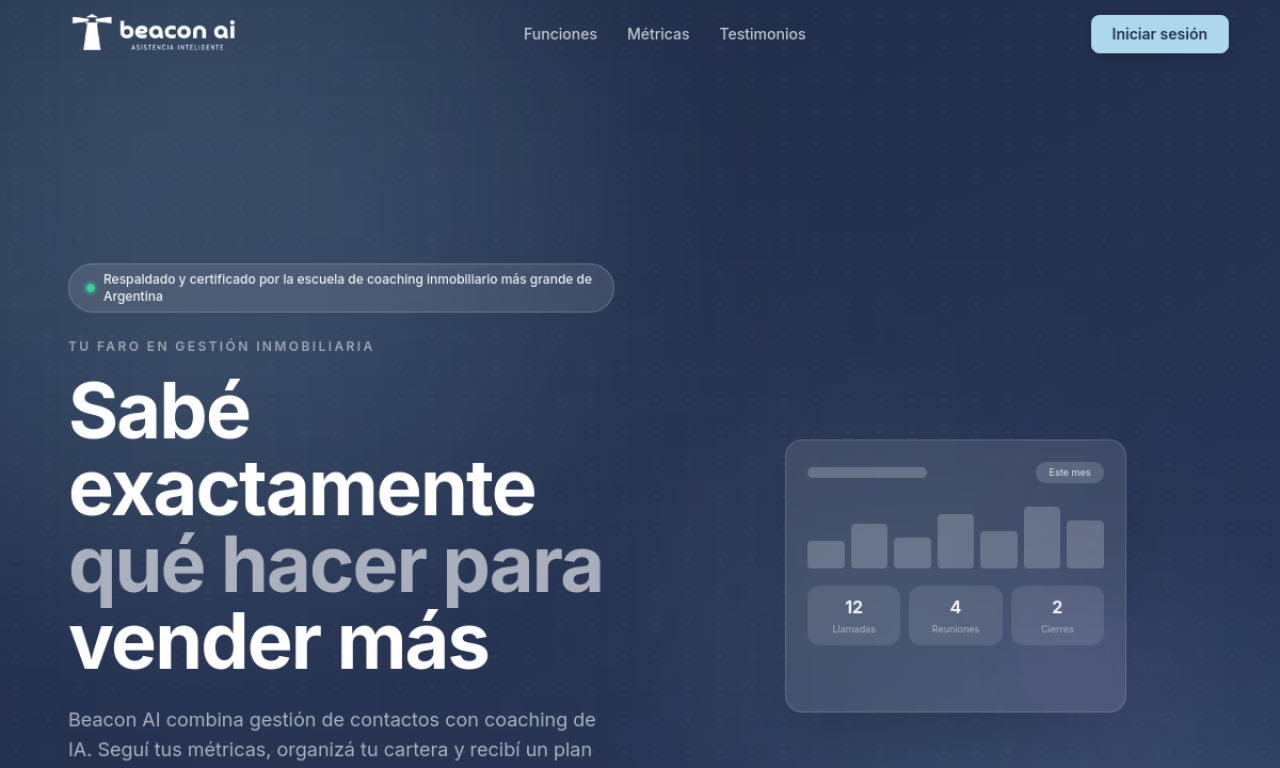
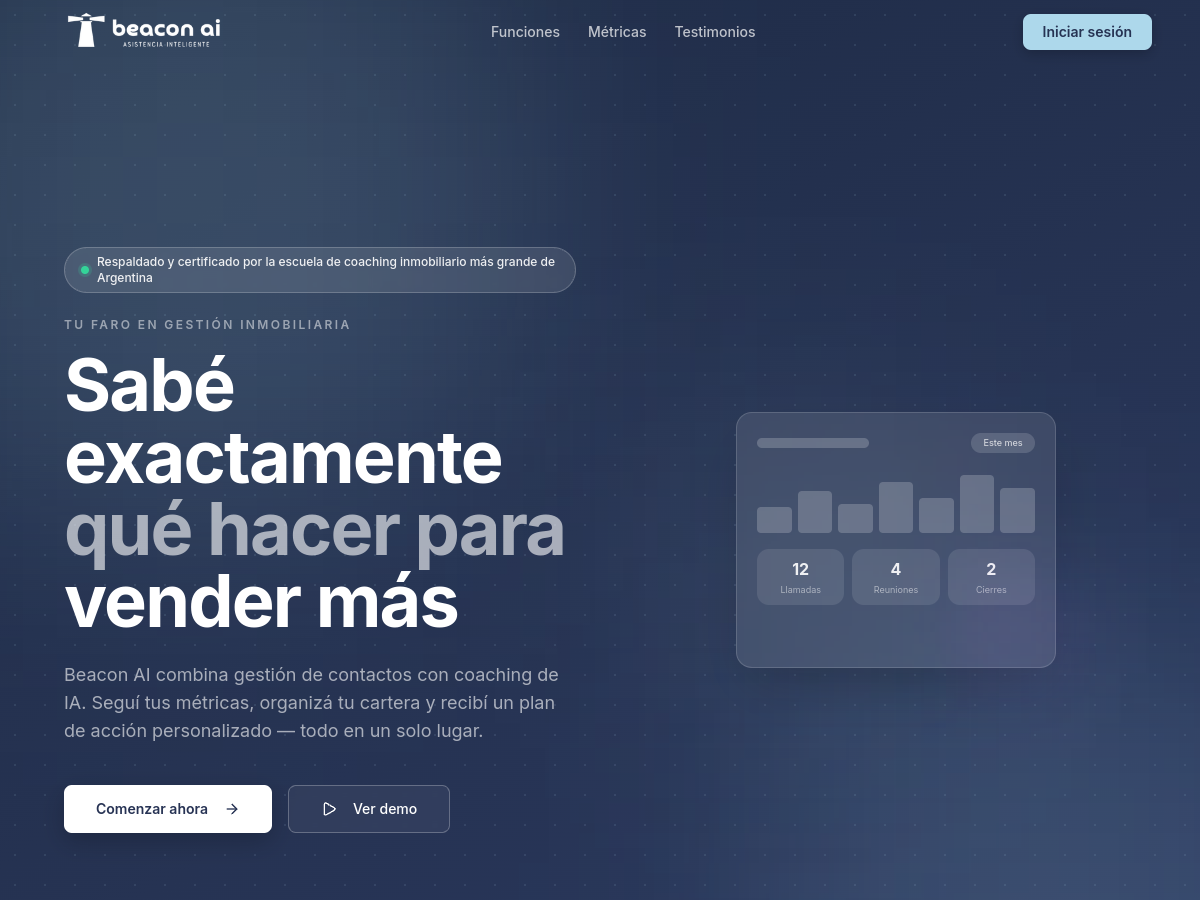
revert: volver al Jochi original (orbe cromado smooth que viaja con el scroll)

diff --git a/src/components/jochi/JochiAssistant.tsx b/src/components/jochi/JochiAssistant.tsx
@@ -1,101 +1,38 @@
 'use client';
 import dynamic from 'next/dynamic';
-import { useEffect, useRef, useState } from 'react';
+import { useEffect, useState } from 'react';
+import { DialogueBubble } from './DialogueBubble';
 import { useJochiMessage } from './useJochiMessages';
 import { useReducedMotion } from '@/lib/hooks/useReducedMotion';
-import type { DragState } from '@/components/three/JochiBot';
 
-const JochiScene = dynamic(() => import('@/components/three/JochiScene').then((m) => m.JochiScene), {
-  ssr: false,
-});
+const JochiScene = dynamic(() => import('@/components/three/JochiScene').then((m) => m.JochiScene), { ssr: false });
 
 export function JochiAssistant() {
   const reduced = useReducedMotion();
   const [is3D, setIs3D] = useState(false);
   const [muted, setMuted] = useState(false);
   const message = useJochiMessage();
-  const drag = useRef<DragState>({ x: 0, y: 0, active: false });
-  const last = useRef({ x: 0, y: 0 });
 
   useEffect(() => {
     setIs3D(window.matchMedia('(pointer: fine)').matches && window.innerWidth >= 768);
   }, []);
 
-  if (reduced) return null; // static orb fallback lives in Hero
-
-  // Mobile / coarse pointer: lightweight DOM companion, no 3D.
-  if (!is3D) {
-    if (muted) return null;
-    return (
-      <div className="fixed bottom-5 right-4 z-40 flex items-end gap-2">
-        {message?.text && (
-          <div className="max-w-[220px] rounded-2xl border border-bone/20 bg-espresso px-4 py-3 text-sm leading-snug text-bone shadow-xl">
-            {message.text}
-          </div>
-        )}
-        <div className="flex flex-col items-center gap-1">
-          {/* eslint-disable-next-line @next/next/no-img-element */}
-          <img src="/images/jochi-static.svg" alt="" className="h-14 w-14 drop-shadow-lg" />
-          <button
-            onClick={() => setMuted(true)}
-            className="rounded-full border border-espresso/30 bg-cream/80 px-2 py-0.5 font-[family-name:var(--font-label)] text-[10px] opacity-70 backdrop-blur"
-          >
-            ⏸ silenciar
-          </button>
-        </div>
-      </div>
-    );
-  }
-
-  // Desktop: visual-only 3D canvas + tiny DOM overlay anchored over the orb.
-  const onPointerDown = (e: React.PointerEvent<HTMLDivElement>) => {
-    drag.current.active = true;
-    last.current = { x: e.clientX, y: e.clientY };
-    e.currentTarget.setPointerCapture(e.pointerId);
-  };
-  const onPointerMove = (e: React.PointerEvent<HTMLDivElement>) => {
-    if (!drag.current.active) return;
-    drag.current.x += e.clientX - last.current.x;
-    drag.current.y += e.clientY - last.current.y;
-    last.current = { x: e.clientX, y: e.clientY };
-  };
-  const onPointerUp = (e: React.PointerEvent<HTMLDivElement>) => {
-    drag.current.active = false;
-    try {
-      e.currentTarget.releasePointerCapture(e.pointerId);
-    } catch {
-      /* pointer already released */
-    }
-  };
+  if (reduced) return null; // static fallback handled in Hero; no orb, no bubbles
 
   return (
     <>
-      <JochiScene dragRef={drag} />
-      {/* Small overlay anchored at the orb's approx screen position (right of
-          center). pointer-events-none container; only the grab handle and mute
-          re-enable events, so the rest of the page stays clickable. */}
-      <div className="pointer-events-none fixed right-[13%] top-1/2 z-40 -translate-y-1/2">
-        {message?.text && !muted && (
-          <div className="absolute right-[64px] top-1/2 w-[210px] -translate-y-1/2 rounded-2xl rounded-br-sm border border-bone/20 bg-espresso px-4 py-3 text-sm leading-snug text-bone shadow-xl">
-            {message.text}
-          </div>
-        )}
-        <div
-          onPointerDown={onPointerDown}
-          onPointerMove={onPointerMove}
-          onPointerUp={onPointerUp}
-          className="pointer-events-auto h-28 w-28 -translate-x-1/2 -translate-y-1/2 cursor-grab rounded-full active:cursor-grabbing"
-          aria-hidden
-        />
-        {!muted && (
+      {is3D && <JochiScene />}
+      {!muted && (
+        <div className="fixed bottom-6 right-6 z-40 flex flex-col items-end gap-2">
+          <DialogueBubble text={message?.text ?? null} />
           <button
             onClick={() => setMuted(true)}
-            className="pointer-events-auto absolute left-1/2 top-[66px] -translate-x-1/2 whitespace-nowrap rounded-full border border-espresso/30 bg-cream/80 px-2.5 py-0.5 font-[family-name:var(--font-label)] text-[11px] text-espresso/80 backdrop-blur transition hover:bg-cream"
+            className="rounded-full border border-espresso/30 bg-cream/80 px-3 py-1 font-[family-name:var(--font-label)] text-xs opacity-70 backdrop-blur hover:opacity-100"
           >
-            ⏸ silenciar
+            ⏸ silenciar a Jochi
           </button>
-        )}
-      </div>
+        </div>
+      )}
     </>
   );
 }

diff --git a/src/components/three/JochiScene.tsx b/src/components/three/JochiScene.tsx
@@ -1,25 +1,22 @@
 'use client';
 import { Canvas } from '@react-three/fiber';
-import { Environment, Lightformer } from '@react-three/drei';
-import { JochiBot, type DragState } from './JochiBot';
+import { useRef } from 'react';
+import { ChromeOrb } from './ChromeOrb';
+import { useJochiPath } from '@/components/jochi/useJochiPath';
 
-/** Persistent full-viewport canvas — purely VISUAL (pointer-events none, no
- *  in-canvas DOM), so it never intercepts clicks. Interactivity (drag, mute,
- *  bubble) lives in the DOM overlay in JochiAssistant. A procedural lightformer
- *  environment gives the chrome smooth, broad reflections (never renders black). */
-export function JochiScene({ dragRef }: { dragRef: React.MutableRefObject<DragState> }) {
+function OrbDriver() {
+  const pose = useJochiPath();
+  return <ChromeOrb position={pose.position} rotation={pose.rotation} />;
+}
+
+export function JochiScene() {
+  const ref = useRef<HTMLDivElement>(null);
   return (
-    <div aria-hidden className="pointer-events-none fixed inset-0 z-30">
-      <Canvas camera={{ position: [0, 0, 6], fov: 45 }} dpr={[1, 2]} gl={{ alpha: true }}>
-        <ambientLight intensity={0.5} />
-        <directionalLight position={[4, 6, 5]} intensity={1.2} />
-        <Environment resolution={512} frames={1}>
-          <Lightformer intensity={2.2} position={[0, 6, 6]} scale={[14, 14, 1]} color="#ffffff" />
-          <Lightformer intensity={1.1} position={[-7, 2, 3]} scale={[10, 14, 1]} color="#e6ebf0" />
-          <Lightformer intensity={1.3} position={[7, 0, 4]} scale={[10, 12, 1]} color="#d4e2f4" />
-          <Lightformer intensity={0.6} position={[0, -7, 3]} scale={[14, 8, 1]} color="#caa089" />
-        </Environment>
-        <JochiBot dragRef={dragRef} />
+    <div ref={ref} aria-hidden className="pointer-events-none fixed inset-0 -z-10">
+      <Canvas camera={{ position: [0, 0, 6], fov: 45 }} dpr={[1, 2]}>
+        <ambientLight intensity={0.6} />
+        <directionalLight position={[5, 5, 5]} intensity={1.2} />
+        <OrbDriver />
       </Canvas>
     </div>
   );

diff --git a/src/app/proyectos/[slug]/page.tsx b/src/app/proyectos/[slug]/page.tsx
@@ -40,17 +40,6 @@ export default async function ProjectPage({ params }: { params: Promise<{ slug: 
         <p className="mt-3 font-[family-name:var(--font-label)] text-sm opacity-60">{project.stack.join(' · ')}</p>
       </header>
 
-      <div className="mt-10 aspect-video overflow-hidden rounded-2xl border border-espresso/10">
-        <Image
-          src={project.cover}
-          alt={`${project.title} — portada`}
-          width={1280}
-          height={720}
-          className="h-full w-full object-cover object-top"
-          priority
-        />
-      </div>
-
       <div className="mt-10 max-w-prose space-y-4 text-lg leading-relaxed opacity-80">
         {project.description.map((para, i) => <p key={i}>{para}</p>)}
       </div>
@@ -60,21 +49,11 @@ export default async function ProjectPage({ params }: { params: Promise<{ slug: 
         {project.demo && <a href={project.demo} target="_blank" rel="noreferrer" className="text-oxblood underline-offset-4 hover:underline">Demo en vivo</a>}
       </div>
 
-      {project.gallery.length > 0 && (
-        <div className="mt-12 grid gap-6 md:grid-cols-2">
-          {project.gallery.map((src, i) => (
-            <div key={i} className="aspect-[16/10] overflow-hidden rounded-2xl border border-espresso/10">
-              <Image
-                src={src}
-                alt={`${project.title} captura ${i + 1}`}
-                width={1200}
-                height={750}
-                className="h-full w-full object-cover object-top"
-              />
-            </div>
-          ))}
-        </div>
-      )}
+      <div className="mt-12 grid gap-6 md:grid-cols-2">
+        {project.gallery.map((src, i) => (
+          <Image key={i} src={src} alt={`${project.title} captura ${i + 1}`} width={800} height={500} className="rounded-2xl object-cover" />
+        ))}
+      </div>
 
       <nav className="mt-16 flex justify-between border-t border-espresso/15 pt-6 font-[family-name:var(--font-label)] text-sm">
         {prev ? <Link href={`/proyectos/${prev.slug}/`} className="hover:text-oxblood">← {prev.title}</Link> : <span />}

diff --git a/src/components/three/ChromeOrb.tsx b/src/components/three/ChromeOrb.tsx
@@ -1,0 +1,27 @@
+'use client';
+import { Environment } from '@react-three/drei';
+import { useFrame } from '@react-three/fiber';
+import { useRef } from 'react';
+import type { Mesh } from 'three';
+
+type Props = { position: [number, number, number]; rotation: [number, number, number] };
+
+export function ChromeOrb({ position, rotation }: Props) {
+  const ref = useRef<Mesh>(null);
+  const idleSpin = useRef(0);
+  useFrame((_, delta) => {
+    if (!ref.current) return;
+    idleSpin.current += delta * 0.15;
+    ref.current.position.set(position[0], position[1], position[2]);
+    ref.current.rotation.set(rotation[0], rotation[1] + idleSpin.current, rotation[2]);
+  });
+  return (
+    <>
+      <Environment preset="studio" />
+      <mesh ref={ref} position={position} rotation={rotation}>
+        <icosahedronGeometry args={[1, 4]} />
+        <meshStandardMaterial metalness={1} roughness={0.08} color="#cfd2d6" envMapIntensity={1.5} />
+      </mesh>
+    </>
+  );
+}

diff --git a/src/components/jochi/DialogueBubble.tsx b/src/components/jochi/DialogueBubble.tsx
@@ -1,0 +1,21 @@
+'use client';
+import { AnimatePresence, motion } from 'framer-motion';
+
+export function DialogueBubble({ text }: { text: string | null }) {
+  return (
+    <AnimatePresence mode="wait">
+      {text && (
+        <motion.div
+          key={text}
+          initial={{ opacity: 0, y: 8, scale: 0.96 }}
+          animate={{ opacity: 1, y: 0, scale: 1 }}
+          exit={{ opacity: 0, y: -8, scale: 0.96 }}
+          transition={{ duration: 0.3 }}
+          className="max-w-[240px] rounded-2xl bg-espresso px-4 py-3 text-sm leading-snug text-bone shadow-xl"
+        >
+          {text}
+        </motion.div>
+      )}
+    </AnimatePresence>
+  );
+}

diff --git a/src/components/jochi/path.ts b/src/components/jochi/path.ts
@@ -23,14 +23,11 @@ export function interpolatePath(progress: number, anchors: Anchor[]): PathPose {
   return { position: mix(lo.position, hi.position), rotation: mix(lo.rotation, hi.rotation) };
 }
 
-// Jochi stays in the RIGHT margin lane (positive x) and drifts gently in y/z
-// as you scroll, so it never crosses over the left-aligned text. The motion is
-// a soft float — small, smooth deltas between anchors — rather than side-to-side.
+// Default flight path across the page (tweak visually during integration).
 export const jochiAnchors: Anchor[] = [
-  { at: 0.0, position: [2.9, 0.25, 0.0], rotation: [0, 0, 0] },
-  { at: 0.2, position: [3.0, -0.15, 0.3], rotation: [0.1, 0.4, 0.05] },
-  { at: 0.4, position: [2.8, 0.2, 0.1], rotation: [-0.08, 0.9, -0.05] },
-  { at: 0.6, position: [3.0, -0.2, 0.25], rotation: [0.1, 1.3, 0.05] },
-  { at: 0.8, position: [2.85, 0.15, 0.0], rotation: [-0.08, 1.7, -0.05] },
-  { at: 1.0, position: [2.9, -0.1, 0.15], rotation: [0, 2.1, 0] },
+  { at: 0.0, position: [2.2, 0, 0], rotation: [0, 0, 0] },
+  { at: 0.2, position: [-2.2, -0.5, 0], rotation: [0.3, 1.6, 0] },
+  { at: 0.45, position: [2.4, 0.3, -1], rotation: [0, 3.1, 0.2] },
+  { at: 0.7, position: [-2.0, 0, 0], rotation: [0.2, 4.7, 0] },
+  { at: 1.0, position: [0, -0.4, 0.5], rotation: [0, 6.28, 0] },
 ];

diff --git a/src/components/ui/ProjectCard.tsx b/src/components/ui/ProjectCard.tsx
@@ -13,7 +13,7 @@ export function ProjectCard({ project }: { project: Project }) {
         aria-label={`Ver proyecto ${project.title}`}
       >
         <div className="relative aspect-video overflow-hidden">
-          <Image src={project.cover} alt={project.title} width={640} height={360} className="h-full w-full object-cover object-top transition-transform duration-500 group-hover:scale-105" />
+          <Image src={project.cover} alt={project.title} width={640} height={360} className="h-full w-full object-cover transition-transform duration-500 group-hover:scale-105" />
         </div>
         <div className="p-5">
           <h3 className="font-[family-name:var(--font-display)] text-xl font-bold">{project.title}</h3>